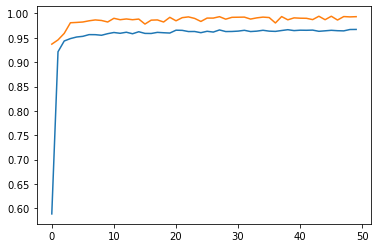
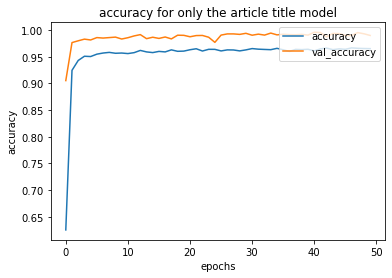
renew

Changed region(s): [[0.0, 0.0, 0.9894, 0.9879]]

diff --git a/_posts/2022-05-16-Classification.md b/_posts/2022-05-16-Classification.md
@@ -301,6 +301,11 @@ history1 = model1.fit(train,
 from matplotlib import pyplot as plt
 plt.plot(history1.history["accuracy"])
 plt.plot(history1.history["val_accuracy"])
+plt.xlabel('epochs')
+plt.ylabel('accuracy')
+plt.legend(('accuracy', 'val_accuracy'), loc='upper right')  
+plt.title('accuracy for only the article title model')
+
 ```
 
 
@@ -403,6 +408,10 @@ history2 = model2.fit(train,
 from matplotlib import pyplot as plt
 plt.plot(history2.history["accuracy"])
 plt.plot(history2.history["val_accuracy"])
+plt.xlabel('epochs')
+plt.ylabel('accuracy')
+plt.legend(('accuracy', 'val_accuracy'), loc='upper right')  
+plt.title('accuracy for only the article model')
 ```
 
 
@@ -540,6 +549,10 @@ history3 = model3.fit(train,
 from matplotlib import pyplot as plt
 plt.plot(history3.history["accuracy"])
 plt.plot(history3.history["val_accuracy"])
+plt.xlabel('epochs')
+plt.ylabel('accuracy')
+plt.legend(('accuracy', 'val_accuracy'), loc='upper right')  
+plt.title('accuracy for the title and article model')
 ```
 
 
